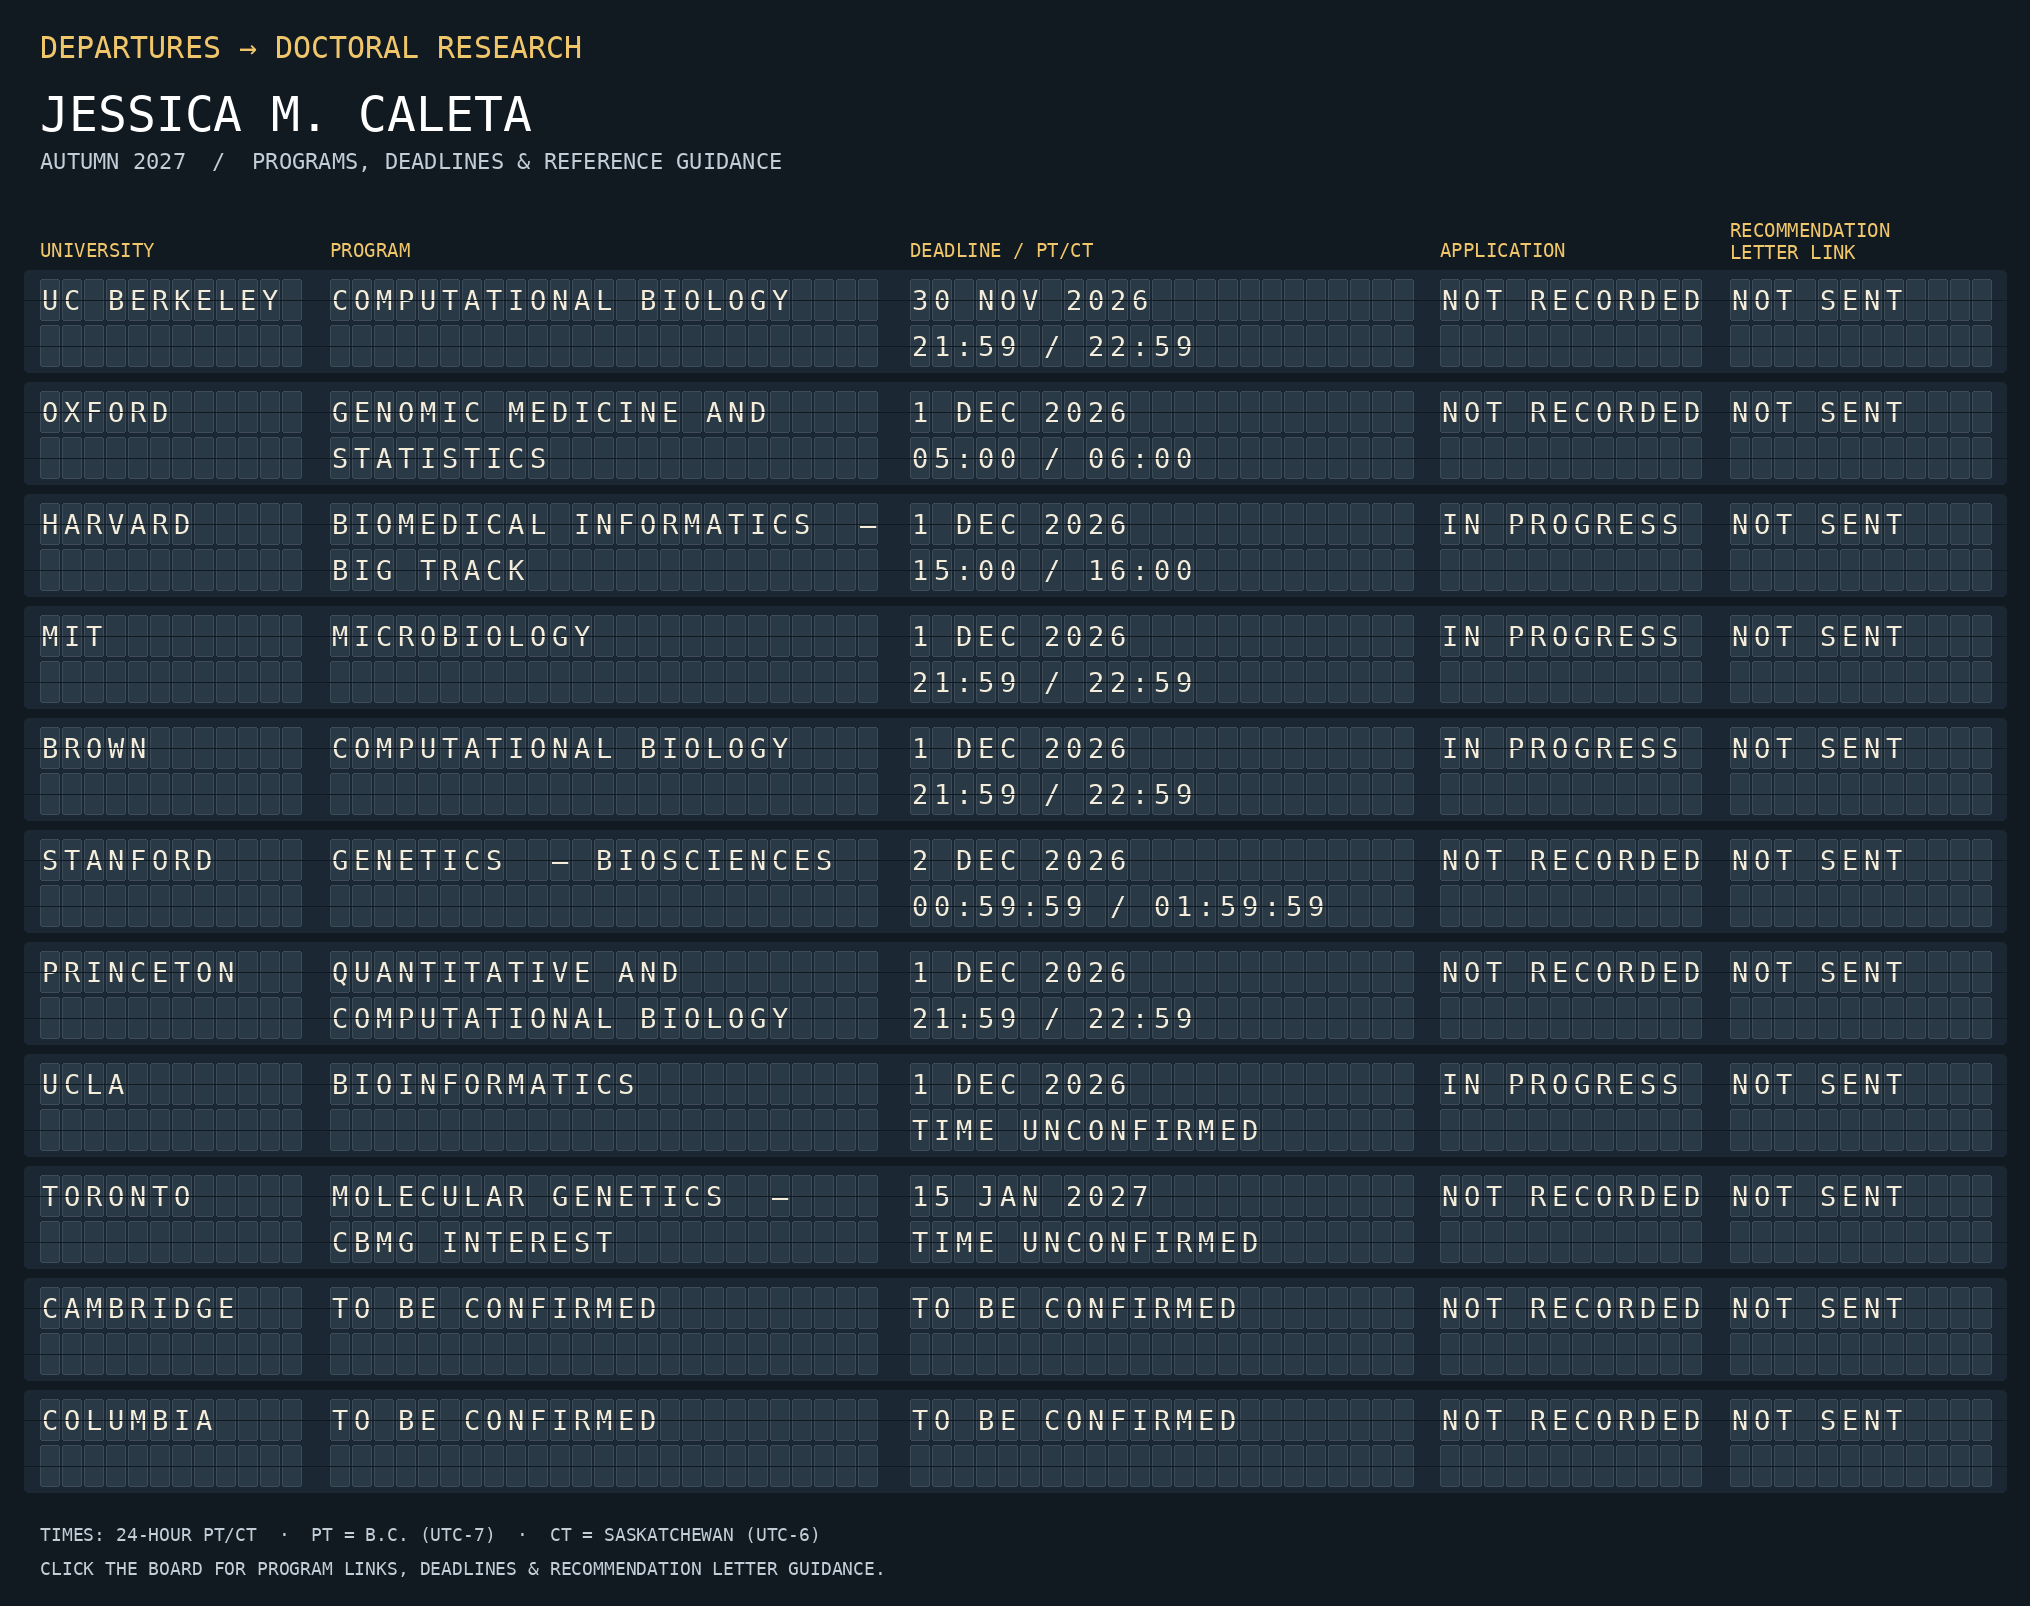
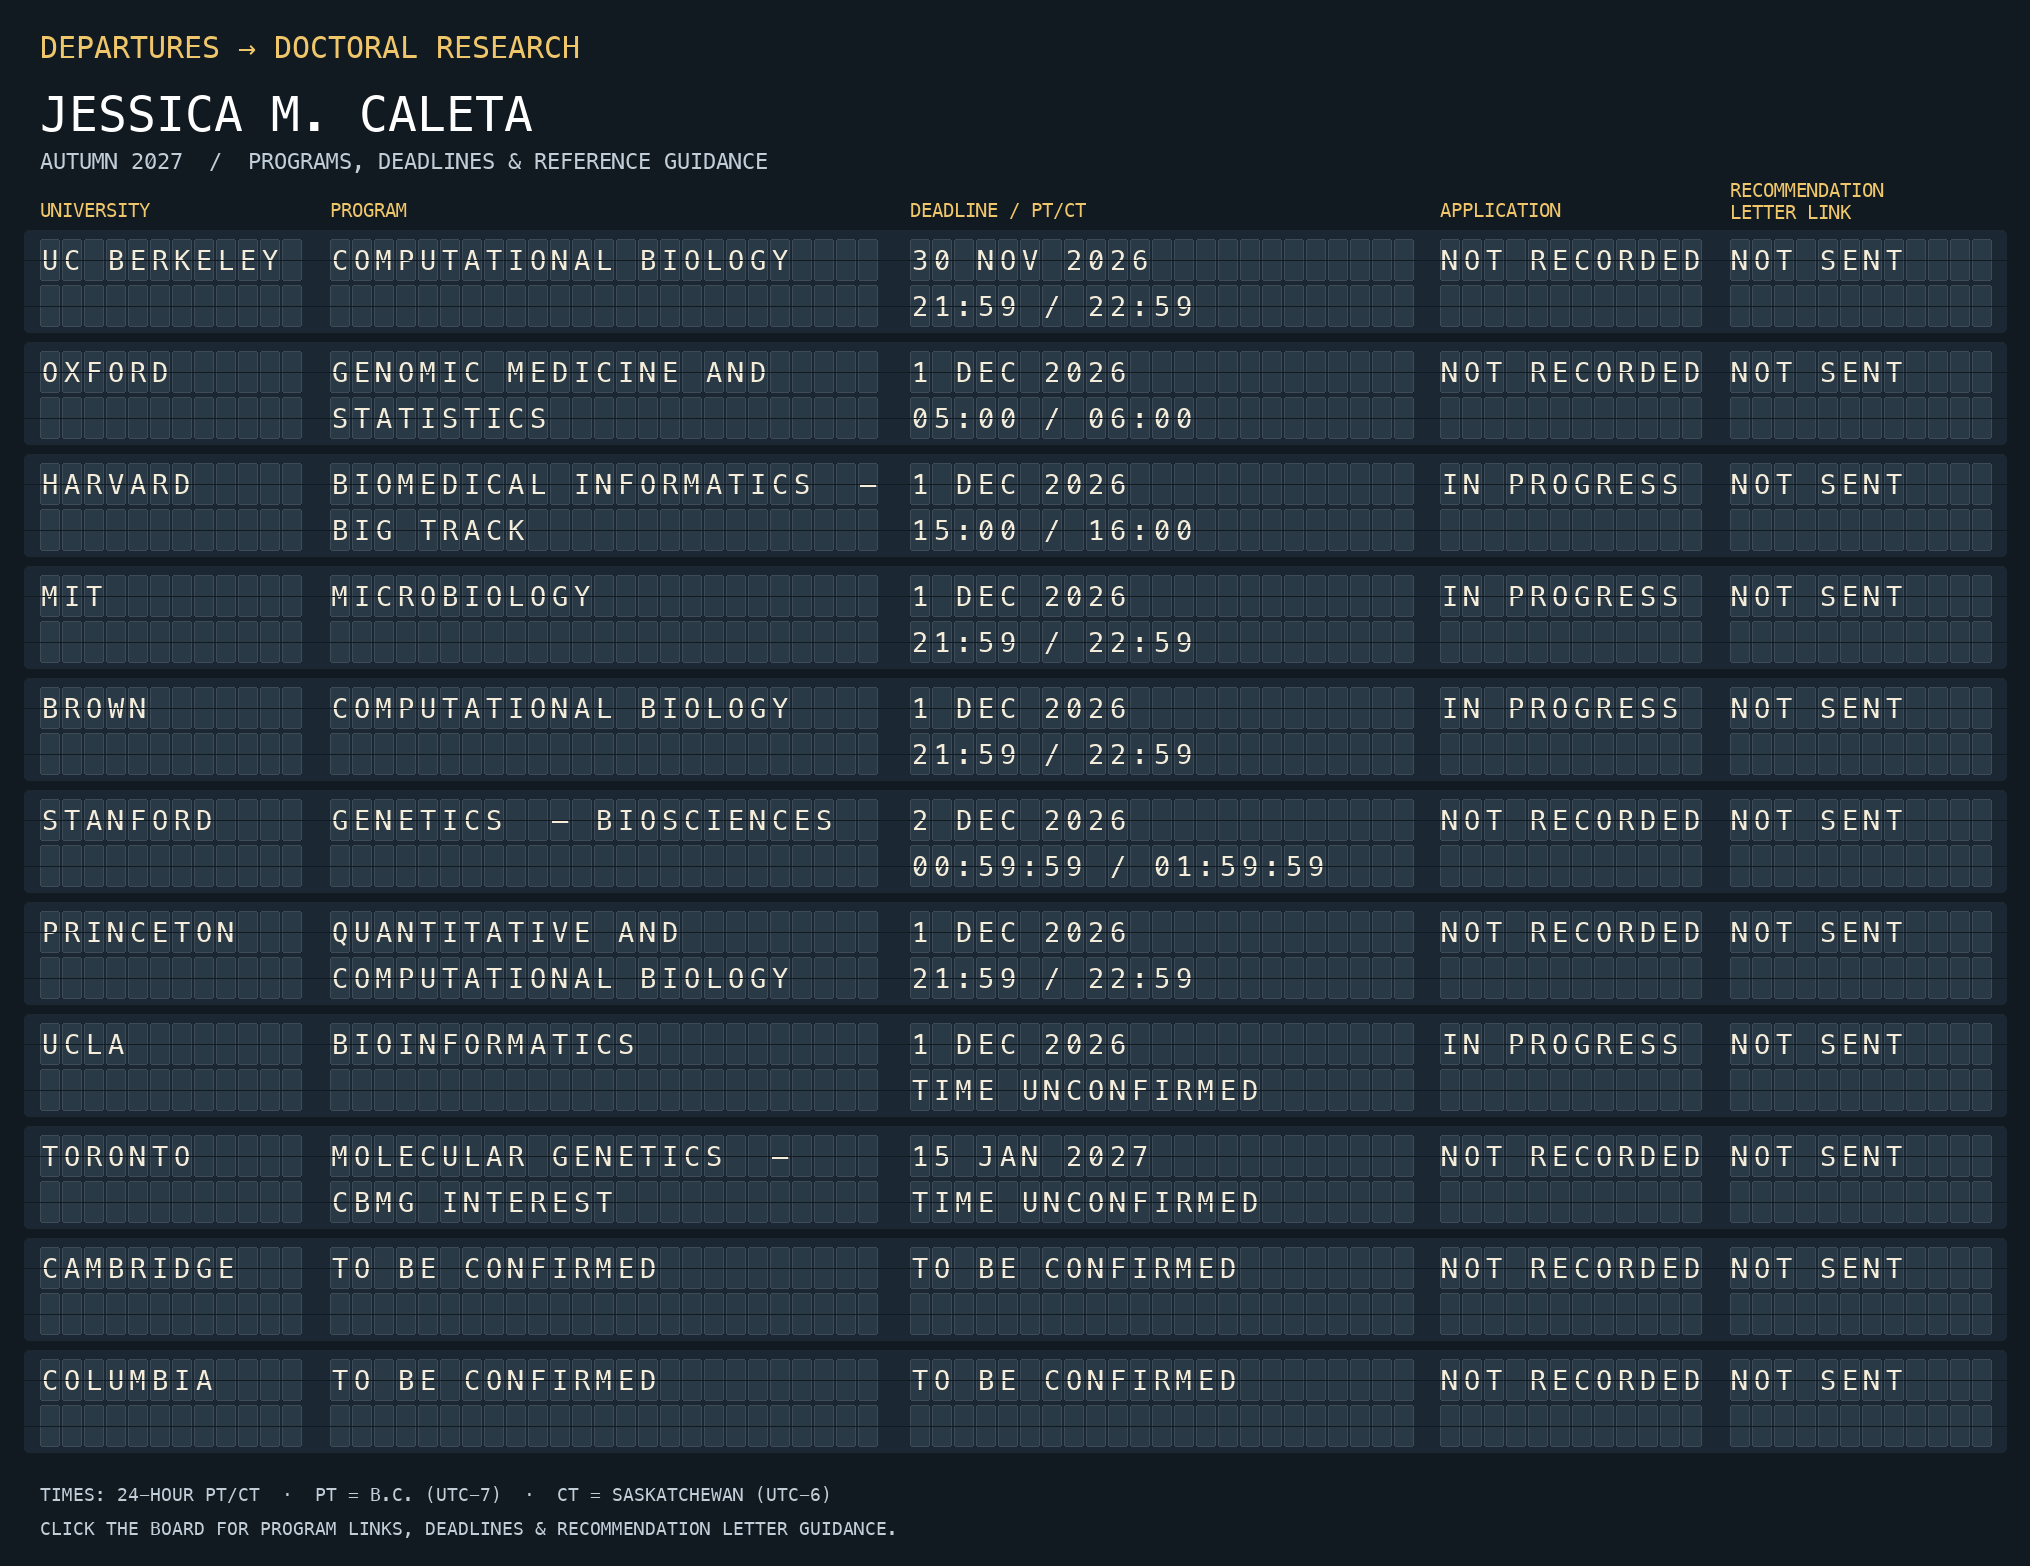
Close empty space beneath flight-board heading

diff --git a/scripts/render_animation.py b/scripts/render_animation.py
@@ -21,7 +21,7 @@ CW,CH,GAP=20,42,2
 STEP=CW+GAP
 COLS=[('university',40,12),('program',330,25),('deadline',910,23),('status',1440,12),('links',1730,12)]
 W=2030
-TOP=270
+TOP=230
 ROW=112
 H=TOP+len(rows)*ROW+104
 base=Image.new('RGB',(W,H),'#111921');d=ImageDraw.Draw(base)
@@ -32,9 +32,9 @@ label(40,86,'JESSICA M. CALETA',48,'#ffffff')
 label(40,148,'AUTUMN 2027  /  PROGRAMS, DEADLINES & REFERENCE GUIDANCE',22)
 for (kind,x,n),name in zip(COLS,['UNIVERSITY','PROGRAM','DEADLINE / PT/CT','APPLICATION','RECOMMENDATION']):
     if kind=='links':
-        label(x,219,name,19,'#f0c66a')
-        label(x,241,'LETTER LINK',19,'#f0c66a')
-    else:label(x,239,name,19,'#f0c66a')
+        label(x,179,name,19,'#f0c66a')
+        label(x,201,'LETTER LINK',19,'#f0c66a')
+    else:label(x,199,name,19,'#f0c66a')
 
 @lru_cache(maxsize=128)
 def card(ch):
